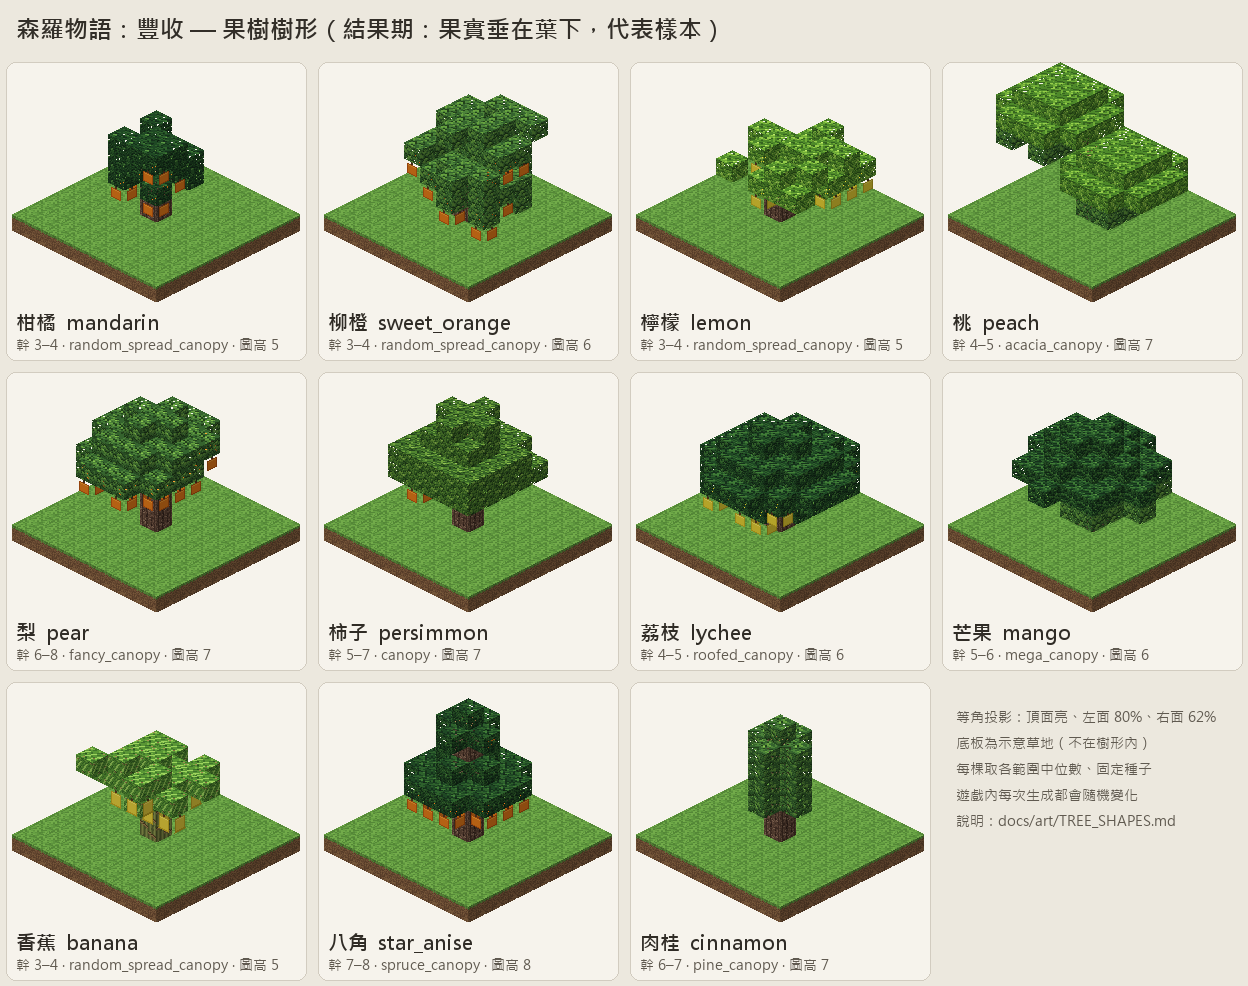
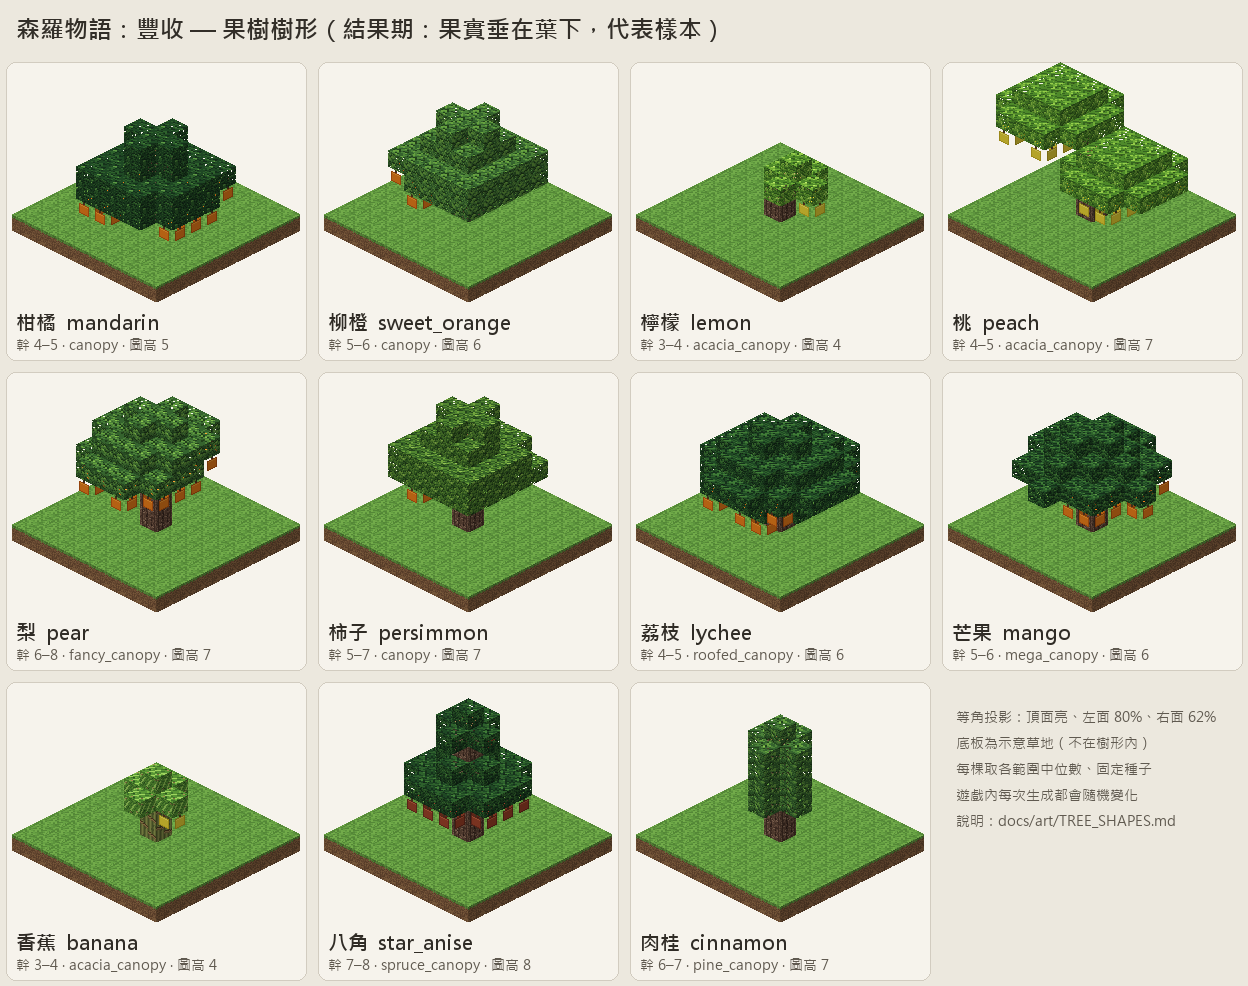
fix: 實機測試第 2 輪——野外果樹的樹冠與柑橘樹苗
- 柑橘、柳橙改原版橡樹式 canopy，檸檬、香蕉改 acacia_canopy；random_spread_canopy 在世界生成時只留樹幹
- 柑橘加一條永不生成的規則：遊戲不註冊沒有規則參照的地物，柑橘樹苗原本長不大
- 柑橘樹幹 4–5、柳橙 5–6（橡樹式樹冠從幹頂往下 3 格）
- validate：擋 random_spread_canopy、沒人參照的地物、scatter_chance 分子不小於分母
- 測試的樹葉位置改從地物檔讀樹幹高度
- 新增 docs/實機測試_第2輪.md

diff --git a/tools/art/tree_shapes.py b/tools/art/tree_shapes.py
@@ -5,7 +5,8 @@ Usage: python tools/art/tree_shapes.py
 Each tree in TREES holds its shape as data (trunk kind + height range, canopy kind + size, lean/branches).
 From that table the script writes, deterministically:
   packs/BP/features/trees/<tree>_tree_feature.json            minecraft:tree_feature
-  packs/BP/feature_rules/trees/<tree>_tree_feature_rule.json  wild placement (not mandarin: village saplings only)
+  packs/BP/feature_rules/trees/<tree>_tree_feature_rule.json  wild placement (mandarin's never places: village saplings only,
+                                                              but without a rule the game does not register the feature)
   art/previews/tree_shapes.png                                isometric voxel render, bare leaves with fruit hanging below, fixed seed
 
 Schema: https://learn.microsoft.com/en-us/minecraft/creator/reference/content/featuresreference/examples/features/minecrafttree_feature
@@ -51,25 +52,29 @@ def tag(t, op='=='):
 # ---------------------------------------------------------------- the shape table
 # trunk kinds:  trunk (straight, height range) | acacia (base + intervals, optional lean / branch) | fancy (big-oak style)
 # canopy kinds: random_spread | canopy (oak blob) | acacia | fancy | roofed | mega | spruce | pine
-# ## random_spread only works on an acacia trunk (vanilla azalea pairs them the same way): on a plain
-# ## `trunk` the game places the logs, no leaves, and reports the feature as failed (found in game, 1.0.0).
-# ## A straight acacia trunk is base + intervals with no lean, e.g. base 3, intervals [2] -> 3 or 4 logs.
+# ## Do not use random_spread: in game (1.0.0) it placed no leaves on a plain `trunk` at all, and on an
+# ## acacia trunk only when a script placed the tree; world generation still left bare trunks. canopy,
+# ## acacia, fancy and mega were seen generating full trees in the wild.
+# ## acacia canopies need an acacia trunk; a straight one is base + intervals with no lean (3 or 4 logs).
+# ## A `canopy` is only confirmed in game with offset -3..0 and four variations (as vanilla oak and
+# ## persimmon), so keep to that. That crown hangs 3 blocks below the trunk
+# ## top, so the trunk needs 4 or more logs or the tree sits on the ground like a bush.
 # wild: biome filter (list = all must pass) and per-chunk chance (one attempt per chunk); None = no wild rule.
 TREES = {
     'mandarin': dict(
-        zh='柑橘', note='矮幹、3 寬緊密圓冠',
-        trunk=dict(kind='acacia', base=3, intervals=[2]),
-        canopy=dict(kind='random_spread', height=2, radius=2, attempts=40),
+        zh='柑橘', note='較矮的幹、稀疏小圓冠',
+        trunk=dict(kind='trunk', height=(4, 5)),
+        canopy=dict(kind='canopy', offset=(-3, 0), variation=[(1, 2), (1, 2), (1, 2), (1, 1)]),
         wild=None),
     'sweet_orange': dict(
-        zh='柳橙', note='矮幹、5 寬圓球冠',
-        trunk=dict(kind='acacia', base=3, intervals=[2]),
-        canopy=dict(kind='random_spread', height=3, radius=3, attempts=70),
+        zh='柳橙', note='5 寬濃密圓球冠',
+        trunk=dict(kind='trunk', height=(5, 6)),
+        canopy=dict(kind='canopy', offset=(-3, 0), variation=[(1, 3), (1, 3), (1, 3), (1, 1)]),
         wild=dict(filter=[tag('plains')], chance=(1, 4), biomes='plains（平原、向日葵平原）')),
     'lemon': dict(
         zh='檸檬', note='微斜幹、偏一側的鬆散不規則冠',
         trunk=dict(kind='acacia', base=3, intervals=[2], lean=dict(height=(1, 2), steps=(1, 1))),
-        canopy=dict(kind='random_spread', height=2, radius=3, attempts=50),
+        canopy=dict(kind='acacia', size=1),
         wild=dict(filter=[tag('savanna')], chance=(1, 4), biomes='savanna（熱帶草原、高原）')),
     'peach': dict(
         zh='桃', note='斜幹＋反向分枝、開心形兩片平展傘冠',
@@ -106,7 +111,7 @@ TREES = {
     'banana': dict(
         zh='香蕉', note='香蕉莖、頂端稀疏扇葉叢',
         trunk=dict(kind='acacia', base=3, intervals=[2], block='banana_trunk'),
-        canopy=dict(kind='random_spread', height=2, radius=3, attempts=30),
+        canopy=dict(kind='acacia', size=1),
         wild=dict(filter=[tag('jungle')], chance=(1, 3), biomes='jungle（叢林、稀疏叢林、竹林）')),
     'star_anise': dict(
         zh='八角', note='直立窄塔、雲杉式分層',
@@ -197,8 +202,12 @@ def canopy_json(c, leaf):
 
 def feature_json(tid):
     d = TREES[tid]
-    if d['canopy']['kind'] == 'random_spread' and d['trunk']['kind'] != 'acacia':
-        raise ValueError(f'{tid}: random_spread canopy needs an acacia trunk (the game places no leaves otherwise)')
+    if d['canopy']['kind'] == 'random_spread':
+        raise ValueError(f'{tid}: random_spread canopy leaves bare trunks in world generation; use another kind')
+    if d['canopy']['kind'] == 'canopy' and (tuple(d['canopy']['offset']) != (-3, 0) or len(d['canopy']['variation']) != 4):
+        raise ValueError(f'{tid}: keep canopy offset -3..0 with four variations (the only form confirmed in game)')
+    if d['canopy']['kind'] == 'acacia' and d['trunk']['kind'] != 'acacia':
+        raise ValueError(f'{tid}: an acacia canopy needs an acacia trunk')
     log = f"{NS}:{d['trunk'].get('block', 'fruitwood_log')}"
     leaf = f'{NS}:{tid}_leaves'
     tk, tb = trunk_json(d['trunk'], log)
@@ -224,8 +233,16 @@ def feature_json(tid):
     }
 
 
+# ## The game only registers a feature that some feature rule references; dimension.placeFeature then
+# ## says "cannot be found in the registry" and that tree's saplings never grow (found in game, 1.0.0:
+# ## mandarin, in a freshly started game; the registry stays cached for the life of the game process,
+# ## so test this after restarting the game). A tree with no wild spawn still gets a rule, whose biome
+# ## filter names a tag no biome has, so it never places.
+NEVER = dict(filter=[{'test': 'has_biome_tag', 'operator': '==', 'value': f'{NS}_never'}], chance=(1, 2))  # the game rejects 1/1
+
+
 def rule_json(tid):
-    w = TREES[tid]['wild']
+    w = TREES[tid]['wild'] or NEVER
     return {
         'format_version': RULE_FORMAT,
         'minecraft:feature_rules': {
@@ -601,10 +618,10 @@ def preview():
 def main():
     for tid in TREE_IDS:
         write_json(os.path.join(FEATURES, f'{tid}_tree_feature.json'), feature_json(tid))
-        if TREES[tid]['wild']:
-            write_json(os.path.join(RULES, f'{tid}_tree_feature_rule.json'), rule_json(tid))
+        write_json(os.path.join(RULES, f'{tid}_tree_feature_rule.json'), rule_json(tid))
     preview()
-    print('wrote', len(TREE_IDS), 'features,', sum(1 for t in TREE_IDS if TREES[t]['wild']), 'rules, preview', PREVIEW)
+    print('wrote', len(TREE_IDS), 'features and rules (', sum(1 for t in TREE_IDS if not TREES[t]['wild']),
+          'never place), preview', PREVIEW)
 
 
 if __name__ == '__main__':

diff --git a/docs/實機測試_第2輪.md b/docs/實機測試_第2輪.md
@@ -1,0 +1,68 @@
+# 實機測試第 2 輪（1.0.0）
+
+接著 [第 1 輪](實機測試_第1輪.md)，把不需要真的滑鼠右鍵、我自己能測的項目測完。方法與限制和第 1 輪相同：用指令搭場地，點方塊的互動透過本機的臨時測試腳本執行（`/scriptevent ht:use` 等），不是真的右鍵。這一輪另外加了幾個測試指令：`ht:tick`（對方塊跑隨機刻）、`ht:scan`（掃描地表的豐收方塊）、`ht:box`（數某範圍的方塊）、`ht:place`（用腳本放地物）、`ht:partners`（記錄聯動包的回覆）。它們都只裝在本機的遊戲資料夾。
+
+## 找到並修好的問題
+
+| # | 問題 | 影響 | 修正 | 之後怎麼擋 |
+| --- | --- | --- | --- | --- |
+| 1 | 第 1 輪把柑橘、柳橙、香蕉改成 `acacia_trunk` + `random_spread_canopy`，用腳本放樹時正常，但**世界生成時仍然只剩光禿樹幹**；檸檬本來就是這個搭法，野外也一樣光禿 | 野外的柳橙、檸檬、香蕉樹都沒有葉子 | 不再用 `random_spread_canopy`：柑橘、柳橙改原版橡樹式 `canopy`，檸檬、香蕉改 `acacia_canopy`。這兩種樹冠在野外確認長得出完整的樹（柿子、桃子、新叢林的香蕉） | `tree_shapes.py` 與 validate 都擋 `random_spread_canopy` |
+| 2 | 柑橘沒有野生生成規則，**遊戲不會註冊沒有任何規則參照的地物** | 柑橘樹苗永遠長不大（`placeFeature` 說找不到這個地物） | 柑橘加一條永遠不會生成的規則（生物群系標籤 `kaleidoscope_harvest_never`），只為了讓地物被註冊 | validate 檢查每個地物都有規則參照；測試檢查只有柑橘的規則是永不生成 |
+| 3 | 上面那條規則一開始寫成機率 1/1，遊戲拒收（分母要大於分子） | 記錄報錯 | 改 1/2（反正永遠不會生成） | validate 檢查 `scatter_chance` |
+| 4 | 原版橡樹式樹冠會從樹幹頂往下長 3 格，柑橘樹幹 2–3 格時整棵貼在地上像灌木 | 外觀 | 柑橘樹幹 4–5、柳橙 5–6 | `tree_shapes.py` 註解與檢查 |
+
+另外修了測試：模擬遊戲的測試原本把柑橘葉子的位置寫死在 3 格樹幹的高度，改成從地物檔讀樹幹高度。
+
+**測試時要注意**：遊戲會在同一次執行中快取地物註冊和世界的資源包清單。改了地物、規則或世界的包之後，只退出世界再進來不一定生效，要整個重開遊戲。第 2 項一開始就是因為這個快取，被誤判成「沒有規則也能註冊」。
+
+## 通過的項目
+
+| 測試表 | 項目 | 結果 |
+| --- | --- | --- |
+| 4.1 | 平原（新區塊） | ✅ 野生大白菜、玉米、蔥、青江菜、孜然（靠近沙漠）、洋蔥、白蘿蔔、大蒜、大豆 |
+| 4.3 | 熱帶草原 | ✅ 野生茄子、芝麻、地瓜、花生、鳳梨、青江菜；野生檸檬樹苗 |
+| 4.4 | 叢林 | ✅ 野生薑、黑胡椒、小黃瓜、百香果；芒果、荔枝、香蕉樹（修正後的新區塊）；野生荔枝、香蕉樹苗 |
+| 4.5 | 沼澤 | ✅ 野生芋頭（`swamp` 標籤可用） |
+| 4.6 | 沙漠 | ✅ 野生孜然（`desert` 標籤可用） |
+| 4.7 | 針葉林、繁花森林 | ✅ 柿子樹、野生藍莓；桃樹 |
+| 4.9–4.10 | 野生果樹 | ✅ 竹林有八角樹、叢林邊緣有肉桂樹（353 片葉子）；梨樹在森林 |
+| 4.12 | 村莊箱子 | ✅ 用 `/loot` 抽平原民宅箱子 8 次，出現葡萄藤苗 ×3、柑橘樹苗 ×2，原版東西也在 |
+| 2.2.1 | 氣候 | ✅ 炎熱的茄子種在溫和的森林：40 次隨機刻不長、變灰 |
+| 2.2.3 | 溫室 | ✅ 玻璃屋頂＋四面牆：同一株茄子 0 → 7 階段、不變灰 |
+| 2.2.4 | 溫室缺一面牆 | ✅ 拆掉一面牆後不長、變灰 |
+| 2.2.5 | 光照 | ✅ 全封閉的石頭箱裡，大白菜 40 次隨機刻都不長 |
+| 2.3.2 | 竹藤架 | ✅ 拿小黃瓜種子點竹藤架變成小黃瓜作物 |
+| 3.1 | 肉桂剝皮 | ✅ 嫩葉點了回到無花，掉肉桂皮 |
+| 3.2.6 | 砍掉樹幹 | ✅ 有樹幹時葉子不掉；樹幹沒了，一次隨機刻葉子就掉 |
+| 3.2.7 | 大樹冠外圈 | ✅ 荔枝 36 片、芒果 66 片葉子各跑一次隨機刻，一片都沒掉 |
+| 3.1 | 新樹形 | ✅ 柑橘、柳橙、檸檬、香蕉用腳本放都有完整樹冠 |
+| 5.1.4–5.1.5 | 榨汁機 | ✅ 葡萄＋芒果榨出綜合果汁；葡萄單顆時壺變紫色 |
+| 5.1.6 | 打掉榨汁機 | ✅ 退回裡面的葡萄（真的用滑鼠左鍵打） |
+| 5.2.6 | 打掉封缸中的醃漬缸 | ✅ 醬油配方封缸後打掉，退回大豆 ×2、糖（真的用滑鼠左鍵打） |
+| 8.1.2 | 樂牧 | ✅ 收到 2 次 `api_ready`，9 種飼料 ×2 輪共 18 筆註冊全部成功、0 失敗 |
+| 8.2.3 | 草本 | ✅ 收到 2 次 `api_ready`，寒熱 20 筆、佐使 2 筆每輪都全部收下、0 拒絕、沒有 `TAKEN` |
+| 9.2 | 簡中 | ✅（部分）遊戲是簡中介面，物品名稱顯示簡中（綜合果汁、葡萄、大豆、糖） |
+
+## 還沒測、需要你測的
+
+需要真的滑鼠右鍵（或你同意把「使用」改綁到鍵盤）：
+
+- 用滑鼠右鍵採收作物和果實、對作物用骨粉（確認互動真的會觸發；邏輯本身已用測試腳本確認）。
+- 廚房器具做豐收的料理（砧板、石磨、炒鍋、湯鍋、蒸籠、茶壺、竹篩）、植物油當炒鍋用油、手冊「豐收」章節。
+- 廚房鐮刀、廚房水田。
+- 樂牧飼槽真的放得進飼料、動物會吃；喝薑母茶後草本的寒熱真的變化；陳皮放進砂鍋。
+- 吃調過數值的食物。
+
+其他沒測的：
+
+- 酒館：這台電腦沒裝。
+- 三語切換到繁中、英文（要改遊戲語言設定）。
+- 從舊版升級：沒有 0.1.0 的世界。
+- 效能（大片農田加多棵果樹）。
+- 野外檸檬樹：只遇到一棵被原版金合歡樹擠住的，還沒在開闊處確認新樹冠；柳橙樹在新的平原區塊也還沒遇到。
+
+## 其他觀察
+
+- 樹會跨生物群系邊界：叢林旁邊的梨樹，樹冠伸進叢林；野生葡萄在叢林旁的樺木林。不是錯。
+- 豐收的作物在沒水的耕地上，隨機刻加快時耕地乾掉、作物掉落，和原版一樣。
+- 測試世界目前掛著草本與樂牧（`HarvestTest01=` 資料夾裡留了只有廚房＋豐收的設定備份 `world_*_packs.json.solo`）。

diff --git a/docs/art/TREE_SHAPES.md b/docs/art/TREE_SHAPES.md
@@ -11,7 +11,7 @@ python tools/art/tree_shapes.py
 | 檔案 | 內容 |
 | --- | --- |
 | `packs/BP/features/trees/<果樹>_tree_feature.json` | `minecraft:tree_feature`，id `kaleidoscope_harvest:<果樹>_tree_feature`，11 個 |
-| `packs/BP/feature_rules/trees/<果樹>_tree_feature_rule.json` | 野生生成規則，10 個（柑橘只從村莊樹苗取得，不做） |
+| `packs/BP/feature_rules/trees/<果樹>_tree_feature_rule.json` | 野生生成規則，11 個。柑橘只從村莊樹苗取得，它的規則指向一個沒有生物群系帶有的標籤，永遠不會生成；但沒有規則參照的地物，遊戲根本不會註冊，柑橘樹苗就長不大 |
 | `art/previews/tree_shapes.png` | 等角體素預覽，無花果葉加上垂在葉下的果實，取各範圍中位數、固定種子 |
 
 樹幹用 `kaleidoscope_harvest:fruitwood_log`（香蕉用 `kaleidoscope_harvest:banana_trunk`），樹葉用 `kaleidoscope_harvest:<果樹>_leaves`。
@@ -20,15 +20,15 @@ python tools/art/tree_shapes.py
 
 | 果樹 | 樹幹（高度） | 樹冠 | 輪廓 | 預覽高 | 野生生物群系標籤 | 每區塊機率 |
 | --- | --- | --- | --- | --- | --- | --- |
-| 柑橘 mandarin | `acacia_trunk` 3–4，不傾斜 | `random_spread_canopy` 高 2、半徑 2、40 次 | 矮幹、3 寬緊密圓冠 | 5 | 無（村莊樹苗） | — |
-| 柳橙 sweet_orange | `acacia_trunk` 3–4，不傾斜 | `random_spread_canopy` 高 3、半徑 3、70 次 | 矮幹、5 寬圓球冠 | 6 | `plains` | 1/4 |
-| 檸檬 lemon | `acacia_trunk` 3–4，傾斜 1 格 | `random_spread_canopy` 高 2、半徑 3、50 次 | 偏一側的鬆散不規則冠 | 5 | `savanna` | 1/4 |
+| 柑橘 mandarin | `trunk` 4–5 | `canopy` 偏移 −3..0，角落較常挖空（1/2） | 較矮的幹、稀疏小圓冠 | 5 | 無（村莊樹苗） | — |
+| 柳橙 sweet_orange | `trunk` 5–6 | `canopy` 偏移 −3..0，角落較少挖空（1/3） | 5 寬濃密圓球冠 | 6 | `plains` | 1/4 |
+| 檸檬 lemon | `acacia_trunk` 3–4，傾斜 1 格 | `acacia_canopy` 1 | 斜幹上偏一側的小平冠 | 5 | `savanna` | 1/4 |
 | 桃 peach | `acacia_trunk` 4–5，傾斜 2–3 格，2/3 機率長分枝 | `acacia_canopy` 2（分枝也是 2） | 開心形，兩片平展傘冠 | 7 | `flower_forest` | 1/3 |
 | 梨 pear | `fancy_trunk` 基 6、變化 2、比例 0.618 | `fancy_canopy` 高 3、半徑 2 | 大橡樹式分枝，多團不規則冠 | 7 | `forest`，排除 `taiga`、`roofed`、`mega`、`extreme_hills`、`cold` | 1/4 |
 | 柿子 persimmon | `trunk` 5–7 | `canopy` 偏移 −3..0（原版橡樹式） | 較高幹、圓冠 | 7 | `taiga`，排除 `cold`、`mega` | 1/5 |
 | 荔枝 lychee | `acacia_trunk` 4–5，不傾斜 | `roofed_canopy` 高 3、外 2、內 3 | 7 寬平頂濃密圓頂 | 6 | `jungle`，排除 `edge`、`bamboo` | 1/3 |
 | 芒果 mango | `trunk` 5–6 | `mega_canopy` 高 3、基半徑 1 | 上窄下寬的傘形大冠 | 6 | `jungle`，排除 `edge`、`bamboo` | 1/3 |
-| 香蕉 banana | `acacia_trunk` 3–4，不傾斜（香蕉莖） | `random_spread_canopy` 高 2、半徑 3、30 次 | 頂端稀疏扇葉叢 | 5 | `jungle` | 1/3 |
+| 香蕉 banana | `acacia_trunk` 3–4，不傾斜（香蕉莖） | `acacia_canopy` 1 | 頂端一片平展扇葉 | 5 | `jungle` | 1/3 |
 | 八角 star_anise | `trunk` 7–8 | `spruce_canopy` 下 2–3、上 0–1、最大半徑 2 | 直立分層尖塔 | 8 | `bamboo`，或 `jungle`＋`hills` | 1/3 |
 | 肉桂 cinnamon | `trunk` 6–7 | `pine_canopy` 高 5–6、基半徑 1 | 直立窄柱、尖頂 | 7 | `jungle`＋`edge` | 1/3 |
 
@@ -54,7 +54,7 @@ python tools/art/tree_shapes.py
 
 1. **`canopy`**：沒寫 `canopy_slope` 與 `min_width`，沿用原版橡樹的預設值，所以樹冠由上到下半徑是 1、1、2、2。`rise`／`run` 哪一個是每層增量官方文件沒寫清楚，因此刻意不用。`variation_chance` 依原版橡樹抄 1/2、1/2、1/2、1/1。官方說明寫的是「數字越大越密」，但原版的數值更像是「角落被挖掉的機率」，抄原版的組合在兩種解讀下都還好看。
 2. **範圍上限**：`range_max` 是否包含在內，文件沒寫。
-3. **`random_spread_canopy`**：只能接在 `acacia_trunk` 上（原版杜鵑樹也是這樣搭）。實機測試（1.0.0）發現接在一般 `trunk` 上時，遊戲只放樹幹、不放樹葉，整個地物算失敗，所以柑橘、柳橙、香蕉改用不傾斜的 `acacia_trunk`，`tools/art/tree_shapes.py` 和 `npm run validate` 都會擋這種搭法。預覽用舊版的 `rand(r) − rand(r)`，樹冠寬 2r−1。如果引擎用 −r..r，柑橘、檸檬、柳橙、香蕉的樹冠會各寬 2 格。
+3. **不用 `random_spread_canopy`**（實機測試 1.0.0）：接在一般 `trunk` 上時完全不放樹葉；改接 `acacia_trunk` 後，用腳本放樹（樹苗長大）會有葉子，但世界生成時仍然只剩光禿的樹幹。柑橘、柳橙改用原版橡樹式的 `canopy`，檸檬、香蕉改用 `acacia_canopy`；`canopy`、`acacia_canopy`、`fancy_canopy`、`mega_canopy` 都在野外確認長得出完整的樹。`canopy` 只在偏移 −3..0 加 4 個 `variation_chance`（與原版橡樹、柿子相同）的寫法下實機確認過，所以先固定這樣用；而且樹冠會從樹幹頂往下 3 格，樹幹太矮時樹會貼地像灌木，所以至少 4 格。`tools/art/tree_shapes.py` 與 `npm run validate` 都會擋這些情況。
 4. **`roofed_canopy`**：文件說 `canopy_height` 是「中間層數」，預覽把它當成總層數，另外畫了偶爾才出現的頂蓋。若照中間層解讀，荔枝會再高 2 層。
 5. **`mega_canopy`**：預覽把最上層放在樹幹頂上一格，往下每層半徑加 1。
 6. **`spruce_canopy`／`pine_canopy`**：預覽依原版雲杉、松樹的參數範圍推論。`trunk_height` 視為整棵樹的高度，`lower_offset` 視為底部光禿的樹幹長度，`upper_offset` 視為樹葉高出樹幹的格數。

diff --git a/docs/實機測試_第1輪.md b/docs/實機測試_第1輪.md
@@ -28,7 +28,7 @@
 | 1 | 垂掛果實和野生作物方塊用了 `minecraft:movable`，但方塊格式是 1.21.90，遊戲要求 1.21.100 以上 | **34 個方塊整個沒載入**：10 種果實和 24 種野生作物都不存在，果樹開花後腳本一直報錯 | 方塊格式改成 1.21.100 | `npm run validate` 會檢查元件需要的最低格式版本 |
 | 2 | 土壤清單用了 Java 版的 `minecraft:rooted_dirt`，基岩版叫 `minecraft:dirt_with_roots` | 樹苗、藍莓、野生樹苗的放置條件少一種土，遊戲記錄有錯誤 | 改名 | validate 會擋 Java 版方塊名 |
 | 3 | 熟作物的閃光粒子 `wax_particle` 需要顏色和方向參數，沒給 | 每幀都在內容記錄寫錯誤（一場測試約 20 萬行） | 送粒子時帶上 Molang 參數（暖黃色、往上飄） | 新增測試：熟作物粒子要帶參數 |
-| 4 | 柑橘、柳橙、香蕉的樹冠 `random_spread_canopy` 接在一般 `trunk` 上 | **這三種樹只長出光禿禿的樹幹、沒有葉子**，野外的柳橙樹也一樣；柑橘樹苗永遠長不大 | 改用不傾斜的 `acacia_trunk`（原版杜鵑樹的搭法） | `tree_shapes.py` 和 validate 都會擋 |
+| 4 | 柑橘、柳橙、香蕉的樹冠 `random_spread_canopy` 接在一般 `trunk` 上 | **這三種樹只長出光禿禿的樹幹、沒有葉子**，野外的柳橙樹也一樣；柑橘樹苗永遠長不大 | 改用不傾斜的 `acacia_trunk`（原版杜鵑樹的搭法）。**第 2 輪發現這樣只修好腳本放樹，野外仍然光禿，最後改成別的樹冠，見 [第 2 輪](實機測試_第2輪.md)** | `tree_shapes.py` 和 validate 都會擋 |
 | 5 | `npm run generate` 每次都會刪掉 `pack_icon.png` | 上次 PR #7 誤刪 pack 圖示就是這個原因 | 生成器不再碰 pack 圖示 | validate 會檢查兩個 pack 圖示都在 |
 
 ## 通過的項目
